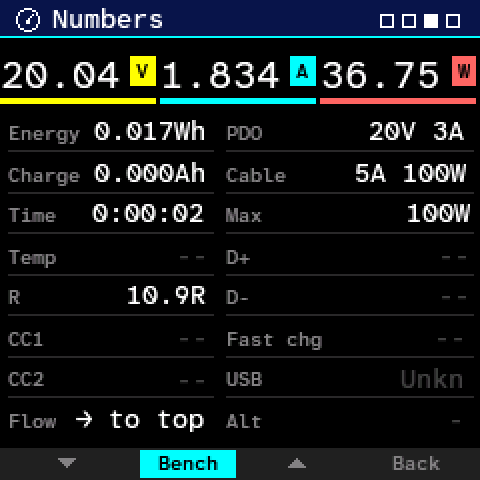
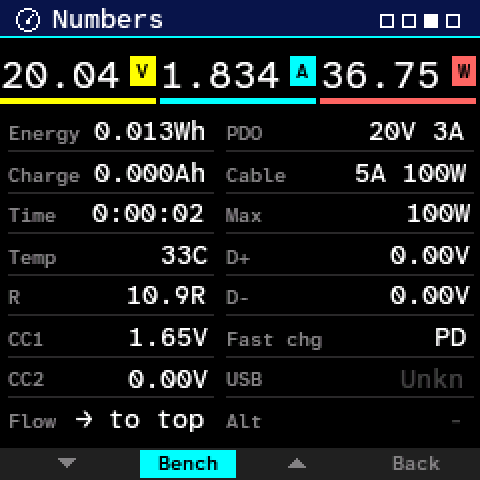
docs(readme): Home and sibling renders show a consistent live session
Summary
The Home render read "PD 20V5A" on row 1 and "Diag  No PD session" on row 2
beside a flowing 20 V / 1.8 A. Re-rendered with a live PD session behind it.

Rationale
The host stand-in carried a PD contract but an empty Black Box report, so the
diagnosis word (and the Bench Log row) said "No PD session"; the stub also had
no ADC reading and no fast-charge verdict, so Numbers and Lines showed "--" and
"Reading the data lines" beside a live contract.

Key Changes / Technical Details
- Stand-in: healthy report (empty=false, power=kPowerOk, quiet link/contract,
  state open) -> the word "Healthy"; adc reading CC1 1.65 V, D+/D- 0 V, 32.5 C;
  fastcharge verdict Pd. Done by a temporary edit of tests/test_ui_mockup.cpp
  (not committed) with the render loop ticking until the UI stopped painting.
- Re-rendered home, bench (Log row: Healthy), numbers, lines at rotation 3,
  panel2png --scale 2, 128 colours. The other 16 images were reproduced
  pixel-identically (or are from other drivers) and left as they are.
- README: intro says what the stand-in is (live session, healthy diagnosis,
  EPR-capable charger for the charger-test and PD Spec pages); Home bullet and
  the regeneration note match.

diff --git a/README.md b/README.md
@@ -27,14 +27,14 @@ Step-by-step hardware test procedures for every protocol and feature, with a res
 
 The K2 has a 240x240 screen and four buttons: **BACK**, **MINUS**, **OK** and **PLUS**. A narrow strip along one edge of the screen always shows what each button does on the page you are on, so read the strip instead of learning keys. In the lists, MINUS and PLUS read **Up** and **Dn**. A grey or missing label means that button does nothing there.
 
-The pictures below are host renders: the real UI code drawn into a 240x240 buffer by the host tests, with stand-in readings (a 100 W PD charger on the port). They are not photos or device screenshots, so the numbers are examples. The regeneration recipe is at the end of this section. The full reference for every page is [`docs/USER_GUIDE.md`](docs/USER_GUIDE.md).
+The pictures below are host renders: the real UI code drawn into a 240x240 buffer by the host tests, with stand-in readings (a 100 W PD charger on the port, a live session and a healthy diagnosis; the charger-test and PD Spec pages use an EPR-capable charger instead). They are not photos or device screenshots, so the numbers are examples. The regeneration recipe is at the end of this section. The full reference for every page is [`docs/USER_GUIDE.md`](docs/USER_GUIDE.md).
 
 ### Home
 
 <img src="docs/img/ui/home.png" width="240" alt="Home: the Flow face">
 
 - Flow is the page the K2 boots into. The big number is power (W); volts and amps sit below it, each with a trend.
-- The two cells on the right (peak, drop, cable, energy) turn by themselves. The bottom block names the PD state and how long the session has run.
+- The two cells on the right (peak, drop, cable, energy) turn by themselves. The bottom block names the PD diagnosis (here "Healthy") and the contract, and how long the session has run.
 - **OK** opens the Bench. **Long OK** resets the energy counter and the peaks. **Long BACK** changes the big number (W, V, A). **Long PLUS / MINUS** change the trend window (10 s, 60 s, 10 min).
 
 ### The other faces: Graphs, Numbers, Lines
@@ -188,7 +188,7 @@ K2_DUMP=runs/shots ./host-build/test_ui_mockup
 python3 tools/panel2png.py runs/shots runs/png --scale 2
 ```
 
-The pictures here come from the same drivers, taken at rotation 3 (the strip at the bottom). The stock drivers dump some frames before a page has finished painting, so the frames here were taken after ticking the UI until it stopped painting, and the PNG files were then reduced to 128 colours.
+The pictures here come from the same drivers, taken at rotation 3 (the strip at the bottom). The stock drivers dump some frames before a page has finished painting, so the frames here were taken after ticking the UI until it stopped painting, and the PNG files were then reduced to 128 colours. For the Home, Bench, Numbers and Lines frames the stub also carried a live PD session's other readings (a healthy Black Box report, CC1 1.65 V with D+/D- at 0 V, the PD verdict), so no row says "no session" or "--" beside a live contract.
 
 ## Hardware
 
